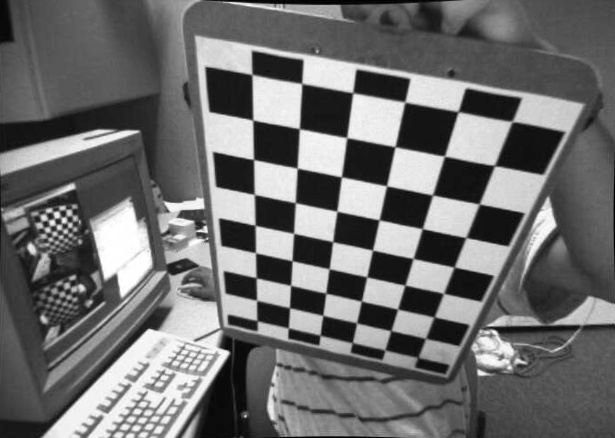
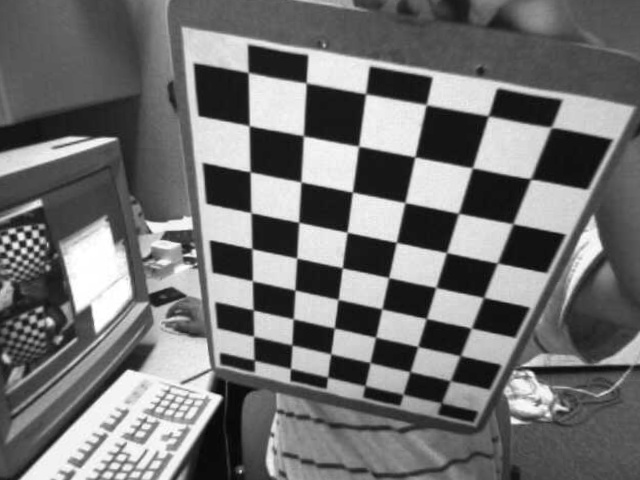
add sgbm

diff --git a/code/SGBM.h b/code/SGBM.h
@@ -1,0 +1,47 @@
+//
+// Created by Chen on 2018/5/29.
+//
+
+#ifndef CODE_SGBM_H
+#define CODE_SGBM_H
+
+#include "opencv2/opencv.hpp"
+
+using namespace std;
+using namespace cv;
+
+void SGBM()
+{
+    string picNum = "08";
+    Mat left = imread("../../img/rectify/left" + picNum + ".jpg", IMREAD_GRAYSCALE);
+    Mat right = imread("../../img/rectify/right" + picNum + ".jpg", IMREAD_GRAYSCALE);
+    Mat disp;
+
+    int mindisparity = 0;
+    int ndisparities = 64;
+    int SADWindowSize = 3;
+
+    //SGBM
+    cv::Ptr<cv::StereoSGBM> sgbm = cv::StereoSGBM::create(mindisparity, ndisparities, SADWindowSize);
+    int P1 = 8 * left.channels() * SADWindowSize * SADWindowSize;
+    int P2 = 32 * left.channels() * SADWindowSize * SADWindowSize;
+    sgbm->setP1(P1);
+    sgbm->setP2(P2);
+
+    sgbm->setPreFilterCap(15);
+    sgbm->setUniquenessRatio(10);
+    sgbm->setSpeckleRange(2);
+    sgbm->setSpeckleWindowSize(100);
+    sgbm->setDisp12MaxDiff(1);
+    //sgbm->setMode(cv::StereoSGBM::MODE_HH);
+
+    sgbm->compute(left, right, disp);
+
+    disp.convertTo(disp, CV_32F, 1.0 / 16);                //除以16得到真实视差值
+    Mat disp8U = Mat(disp.rows, disp.cols, CV_8UC1);       //显示
+    normalize(disp, disp8U, 0, 255, NORM_MINMAX, CV_8UC1);
+
+    imwrite("../../img/sgbm/sgbm" + picNum + ".jpg", disp8U);
+}
+
+#endif //CODE_SGBM_H

diff --git a/code/StereoRectification.h b/code/StereoRectification.h
@@ -21,7 +21,7 @@ void StereoRectification()
     string picList[] = {"01", "02", "03", "04", "05", "06", "07", "08", "09", "11", "12", "13", "14"};
     string baseLeftPath = "../../img/left/left";
     string baseRightPath = "../../img/right/right";
-    string rectifyPicNum = "02";
+    string rectifyPicNum = "11";
     Size imageSize;
 
     vector<cv::Point2f> corners[2];
@@ -94,8 +94,10 @@ void StereoRectification()
     if(access("../../img/rectify", F_OK))
         mkdir("../../img/rectify", S_IRWXU);
     imwrite("../../img/rectify/rectify" + rectifyPicNum + ".jpg", pair);
-    imshow("rectified", pair);
-    while(waitKey() != 'q');
+    imwrite("../../img/rectify/left" + rectifyPicNum + ".jpg", img1r);
+    imwrite("../../img/rectify/right" + rectifyPicNum + ".jpg", img2r);
+//    imshow("rectified", pair);
+//    while(waitKey() != 'q');
 }
 
 #endif //CODE_STEREORECTIFICATION_H

diff --git a/code/main.cpp b/code/main.cpp
@@ -1,7 +1,11 @@
 #include "StereoRectification.h"
+#include "SGBM.h"
 
 int main(int argc, char **argv) {
     if(!strcmp(argv[1], "-rect"))
         StereoRectification();
+    if(!strcmp(argv[1], "-sgbm"))
+        SGBM();
+
     return 0;
 }
